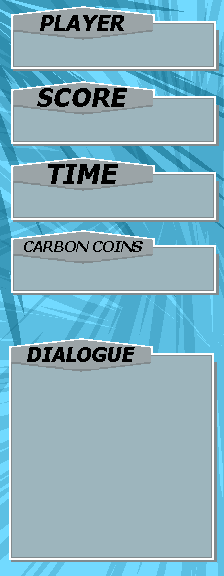
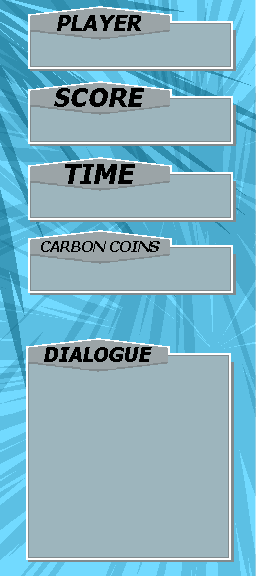
Side bar widened

diff --git a/sharedMobilityAdventure/src/sharedMobilityAdventure/GamePanel.java b/sharedMobilityAdventure/src/sharedMobilityAdventure/GamePanel.java
@@ -130,7 +130,7 @@ public class GamePanel extends JPanel implements KeyListener {
             ex.printStackTrace();
         }  
                
-        g.drawImage(sidebarImage, 800, 0, 224, totalHeight, null);
+        g.drawImage(sidebarImage, 768, 0, 256, totalHeight, null);
         
         paintHalos(g);
         
